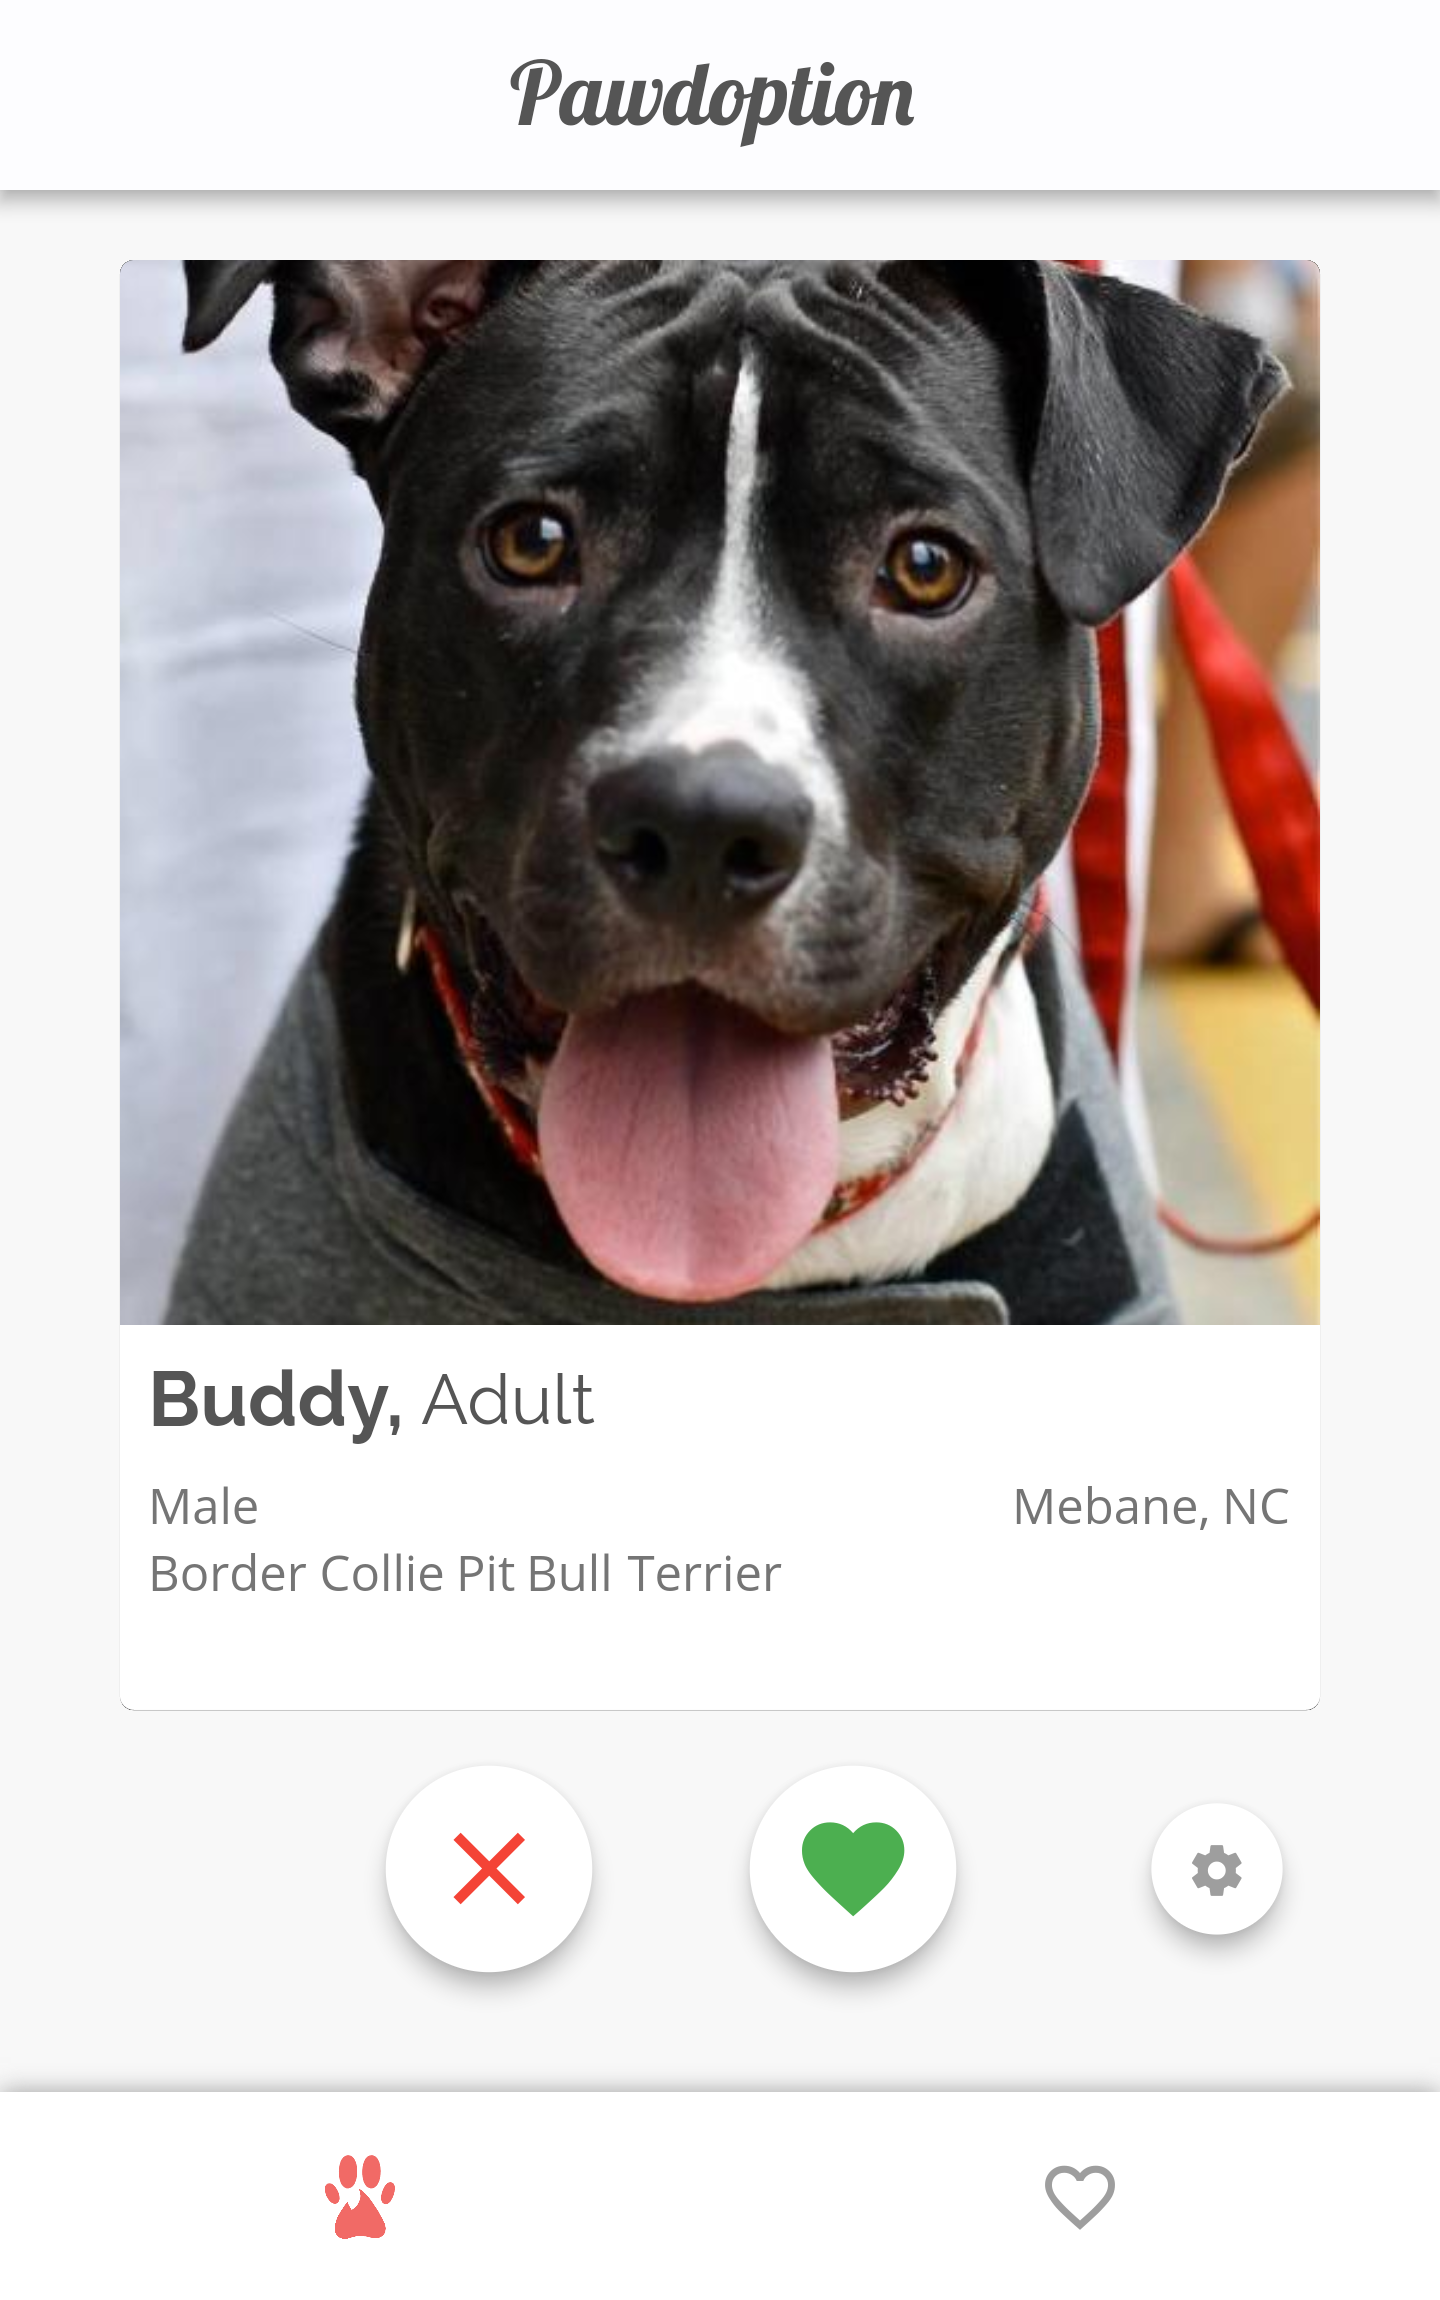
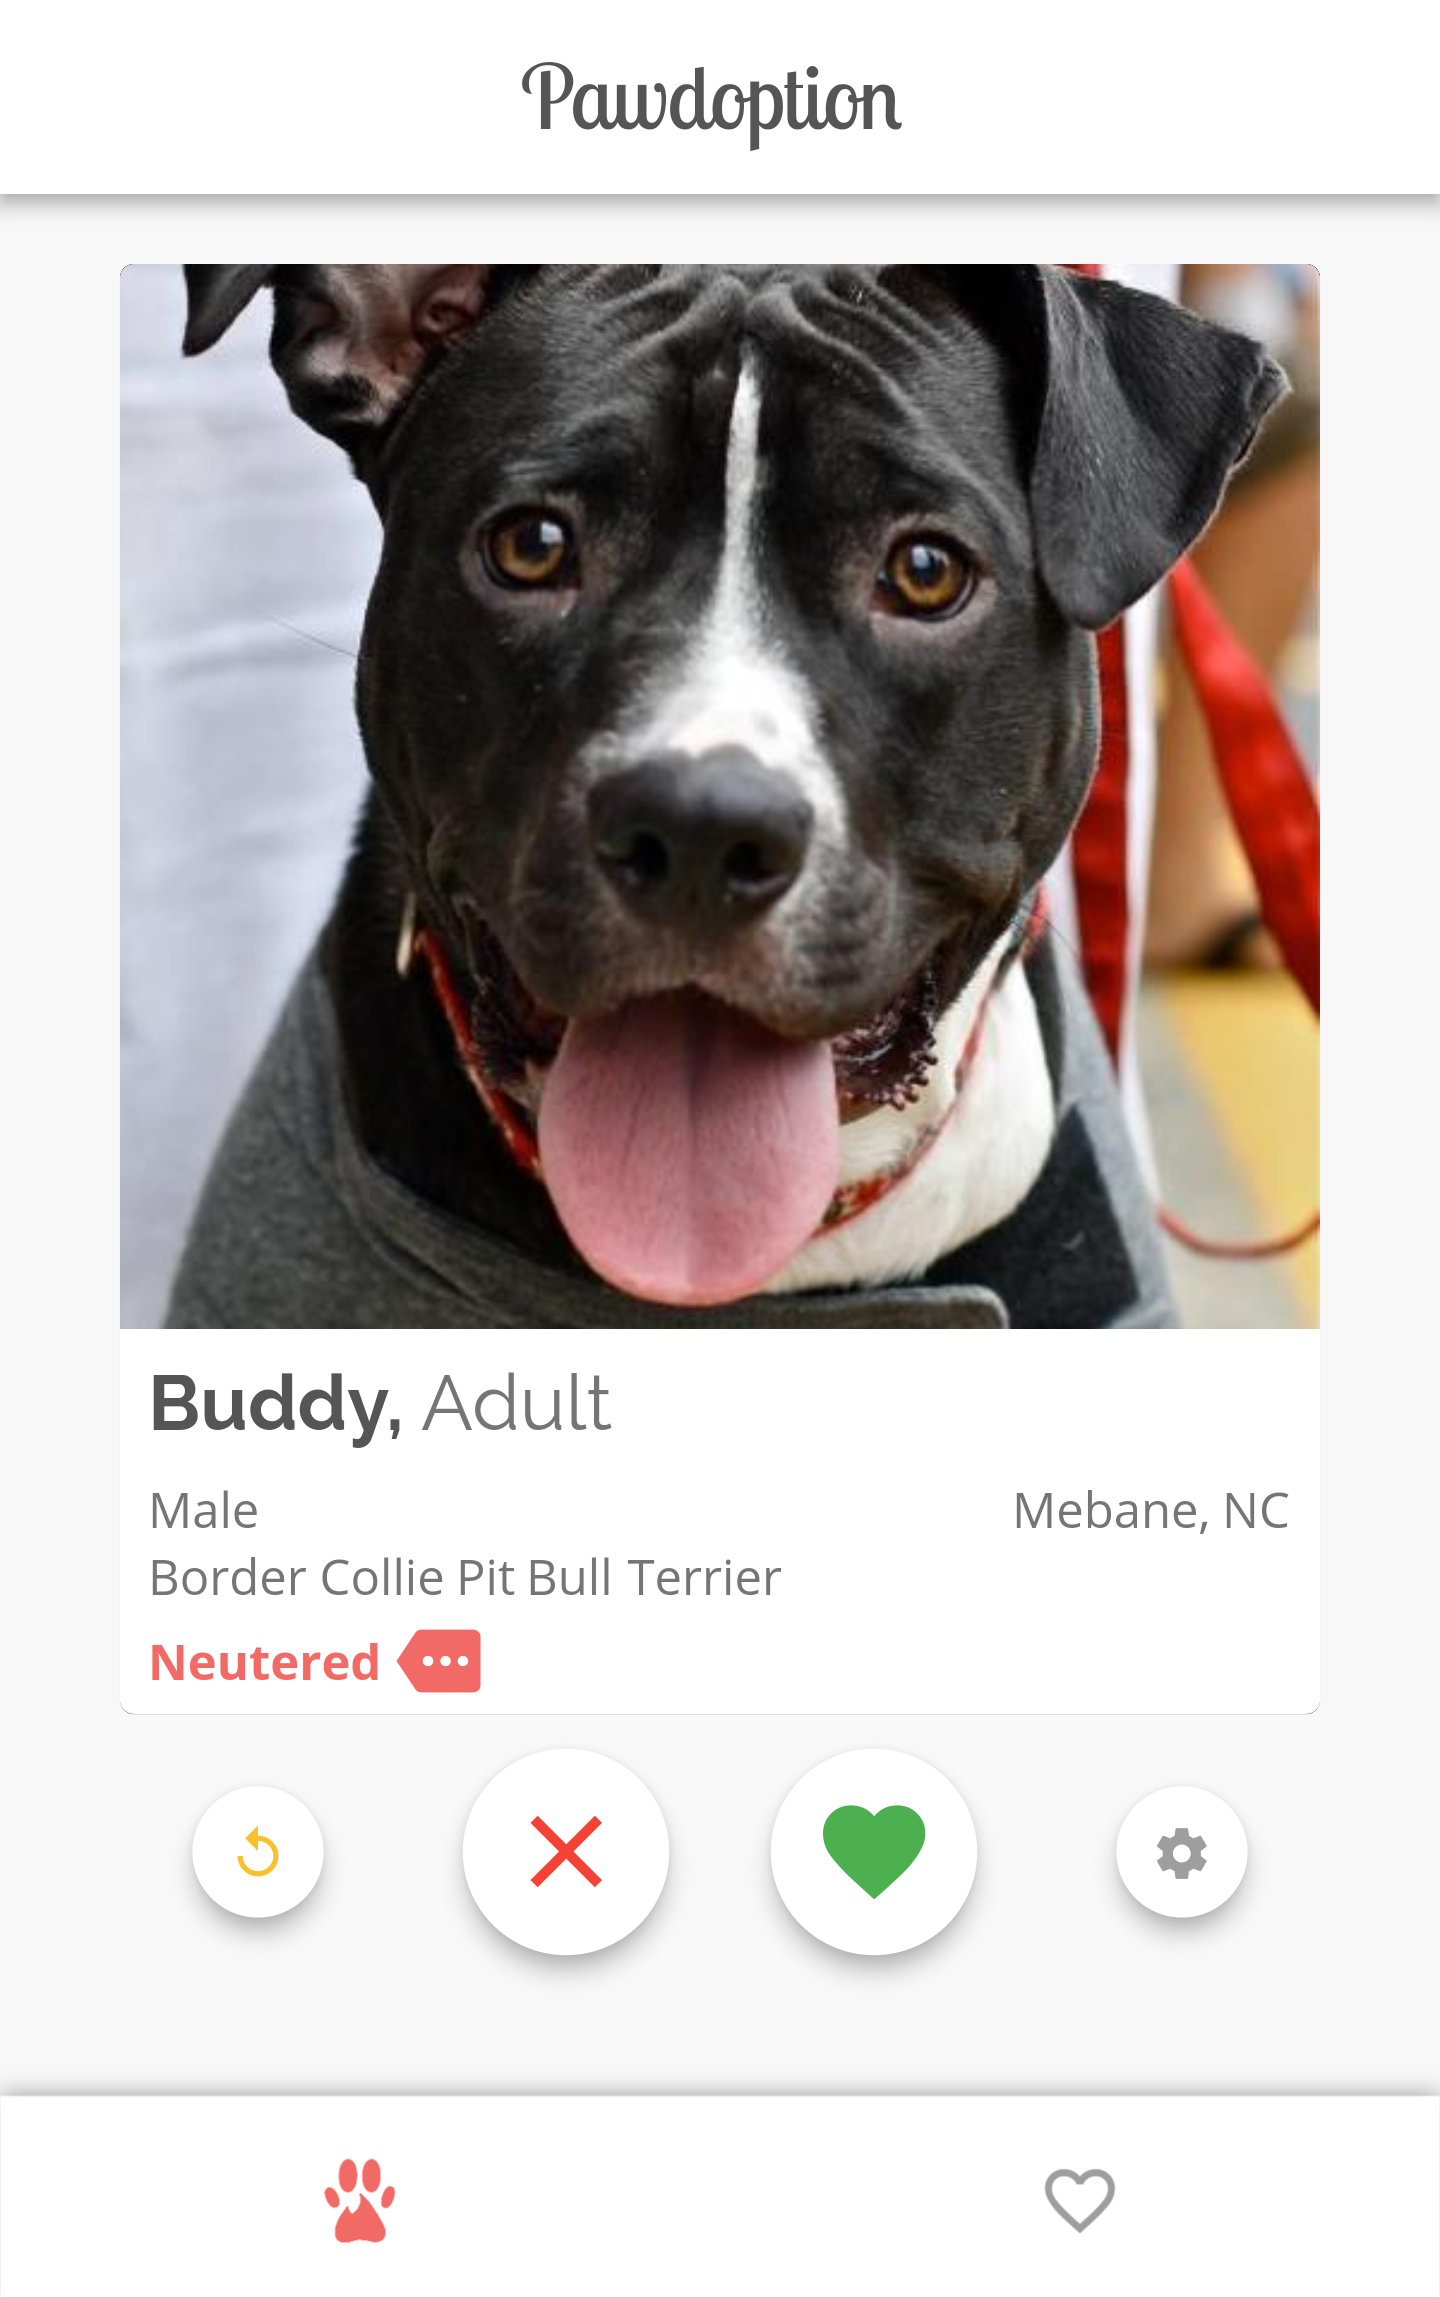
Fixed readme screenshots, fixed bug in Animals class

diff --git a/lib/swiping.dart b/lib/swiping.dart
@@ -24,7 +24,7 @@ class SwipingPage extends StatefulWidget {
 }
 
 class _SwipingPageState extends State<SwipingPage>
-    with TickerProviderStateMixin {
+    with SingleTickerProviderStateMixin {
   AnimalFeed feed;
   bool _hasInfo, _swipingRight, _animating;
   AnimationController _controller;
@@ -340,7 +340,7 @@ class _SwipingPageState extends State<SwipingPage>
   }
 
   Widget _buildTags(Animal pet) {
-    if (pet.options.isEmpty) return SizedBox();
+    if (pet.options == null || pet.options.isEmpty) return SizedBox();
     return Container(
       padding: const EdgeInsets.only(left: 8.0),
       height: 30.0,

diff --git a/lib/animals.dart b/lib/animals.dart
@@ -30,7 +30,10 @@ class Animal {
   DateTime lastUpdated;
 
   List<String> options;
-  bool spayedNeutered, hasShots, specialNeeds, noKids;
+  bool spayedNeutered = false,
+      hasShots = false,
+      specialNeeds = false,
+      noKids = false;
 
   /// Was used when the project scraped information from petharbor but now
   /// used.

diff --git a/README.md b/README.md
@@ -12,7 +12,7 @@ Pawdoption allows you to choose between swiping through dogs or cats.
 (Option for both coming soon!)
 
 
-<img src="screenshots/home_ruff.png" height="500px"/> <img src="screenshots/home_other.png" height="500px"/>
+<img src="screenshots/home_ruff.png" height="500px"/> <img src="screenshots/home_buddy.png" height="500px"/>
 <img src="screenshots/saved.png" width="500px"/>
 
 
